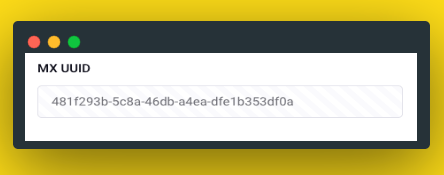
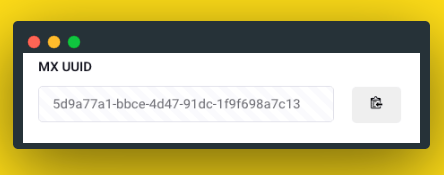
no message

diff --git a/mx_uuid/ft.mx_uuid.php b/mx_uuid/ft.mx_uuid.php
@@ -223,11 +223,13 @@ class Mx_uuid_ft extends EE_Fieldtype
     public function display_field($data, $view_type = 'field', $settings = array(), $cp = true, $passed_init = array())
     {
 
-        $js       = "";
-        $css      = "";
-        $class    = "";
-        $subClass ="";
-        $r        = "";
+        $js             = "";
+        $css            = "";
+        $class          = "";
+        $subClass       = "";
+        $r              = "";
+        $js_block_start = '<script type="text/javascript">';
+        $js_block_end   = '</script>';
 
         if (!empty($settings)) {
             $cp = false;
@@ -247,10 +249,16 @@ class Mx_uuid_ft extends EE_Fieldtype
             } while (self::validateUuid($data, $this->field_id));
         }
 
-        return '<input type="hidden" name="'.$this->field_name.'" value="' . $data . '" />
-                <input type="text" name="'.$this->field_name.'" value="' . $data . '" disabled="disabled" />
-        '
-        ;
+        if (!self::$js_added and $cp) {
+            ee()->cp->add_to_foot('<script src="https://cdnjs.cloudflare.com/ajax/libs/clipboard.js/2.0.6/clipboard.min.js"></script>');
+            ee()->cp->add_to_foot($js_block_start . "$( document ).ready(function() { new ClipboardJS('.copyme'); });" . $js_block_end);
+
+            self::$js_added = true;
+        }
+
+
+        return '<input type="hidden" name="'.$this->field_name.'" value="' . $data . '"  />
[1 lines of base64/hex data omitted]
     }
     /**
      * [renderTableCell description]

diff --git a/README.md b/README.md
@@ -28,7 +28,6 @@ This fieldtype auto-generates UUIDs for empty fields. This can be useful if you 
 
 ## ToDo
 * Regenerate option
-* Add copy uuid option to field
 
 ## Support Policy
 This is Communite Edition  add-on.
